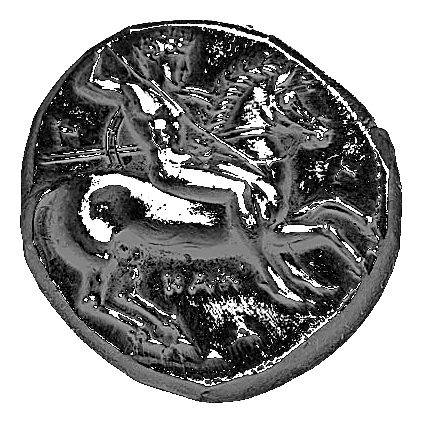
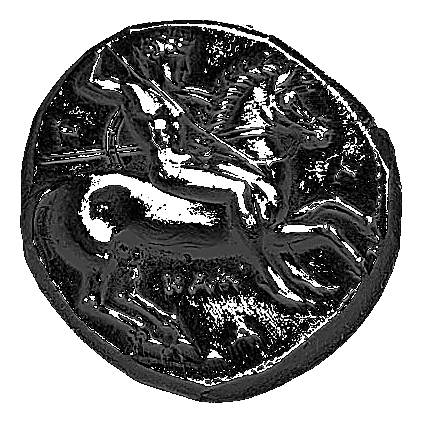
Coin 3: 50% darker image + reduced opacity (peak 0.2)

Changed region(s): [[0.0307, 0.0615, 0.9527, 0.9527]]

diff --git a/index.html b/index.html
@@ -254,10 +254,10 @@ a[href="/contact/"], a[href="/contact/"] span {
 @keyframes coinFlash3 {
   0% { opacity: 0; transform: translate(-50%, -50%) rotate(0deg); }
   93% { opacity: 0; transform: translate(-50%, -50%) rotate(10deg); }
-  94% { opacity: 0.35; transform: translate(-50%, -50%) rotate(10deg); }
-  94.5% { opacity: 0.12; transform: translate(-50%, -50%) rotate(10deg); }
-  95% { opacity: 0.3; transform: translate(-50%, -50%) rotate(10deg); }
-  96% { opacity: 0.08; transform: translate(-50%, -50%) rotate(10deg); }
+  94% { opacity: 0.2; transform: translate(-50%, -50%) rotate(10deg); }
+  94.5% { opacity: 0.07; transform: translate(-50%, -50%) rotate(10deg); }
+  95% { opacity: 0.17; transform: translate(-50%, -50%) rotate(10deg); }
+  96% { opacity: 0.05; transform: translate(-50%, -50%) rotate(10deg); }
   97% { opacity: 0; transform: translate(-50%, -50%) rotate(10deg); }
   100% { opacity: 0; transform: translate(-50%, -50%) rotate(10deg); }
 }
